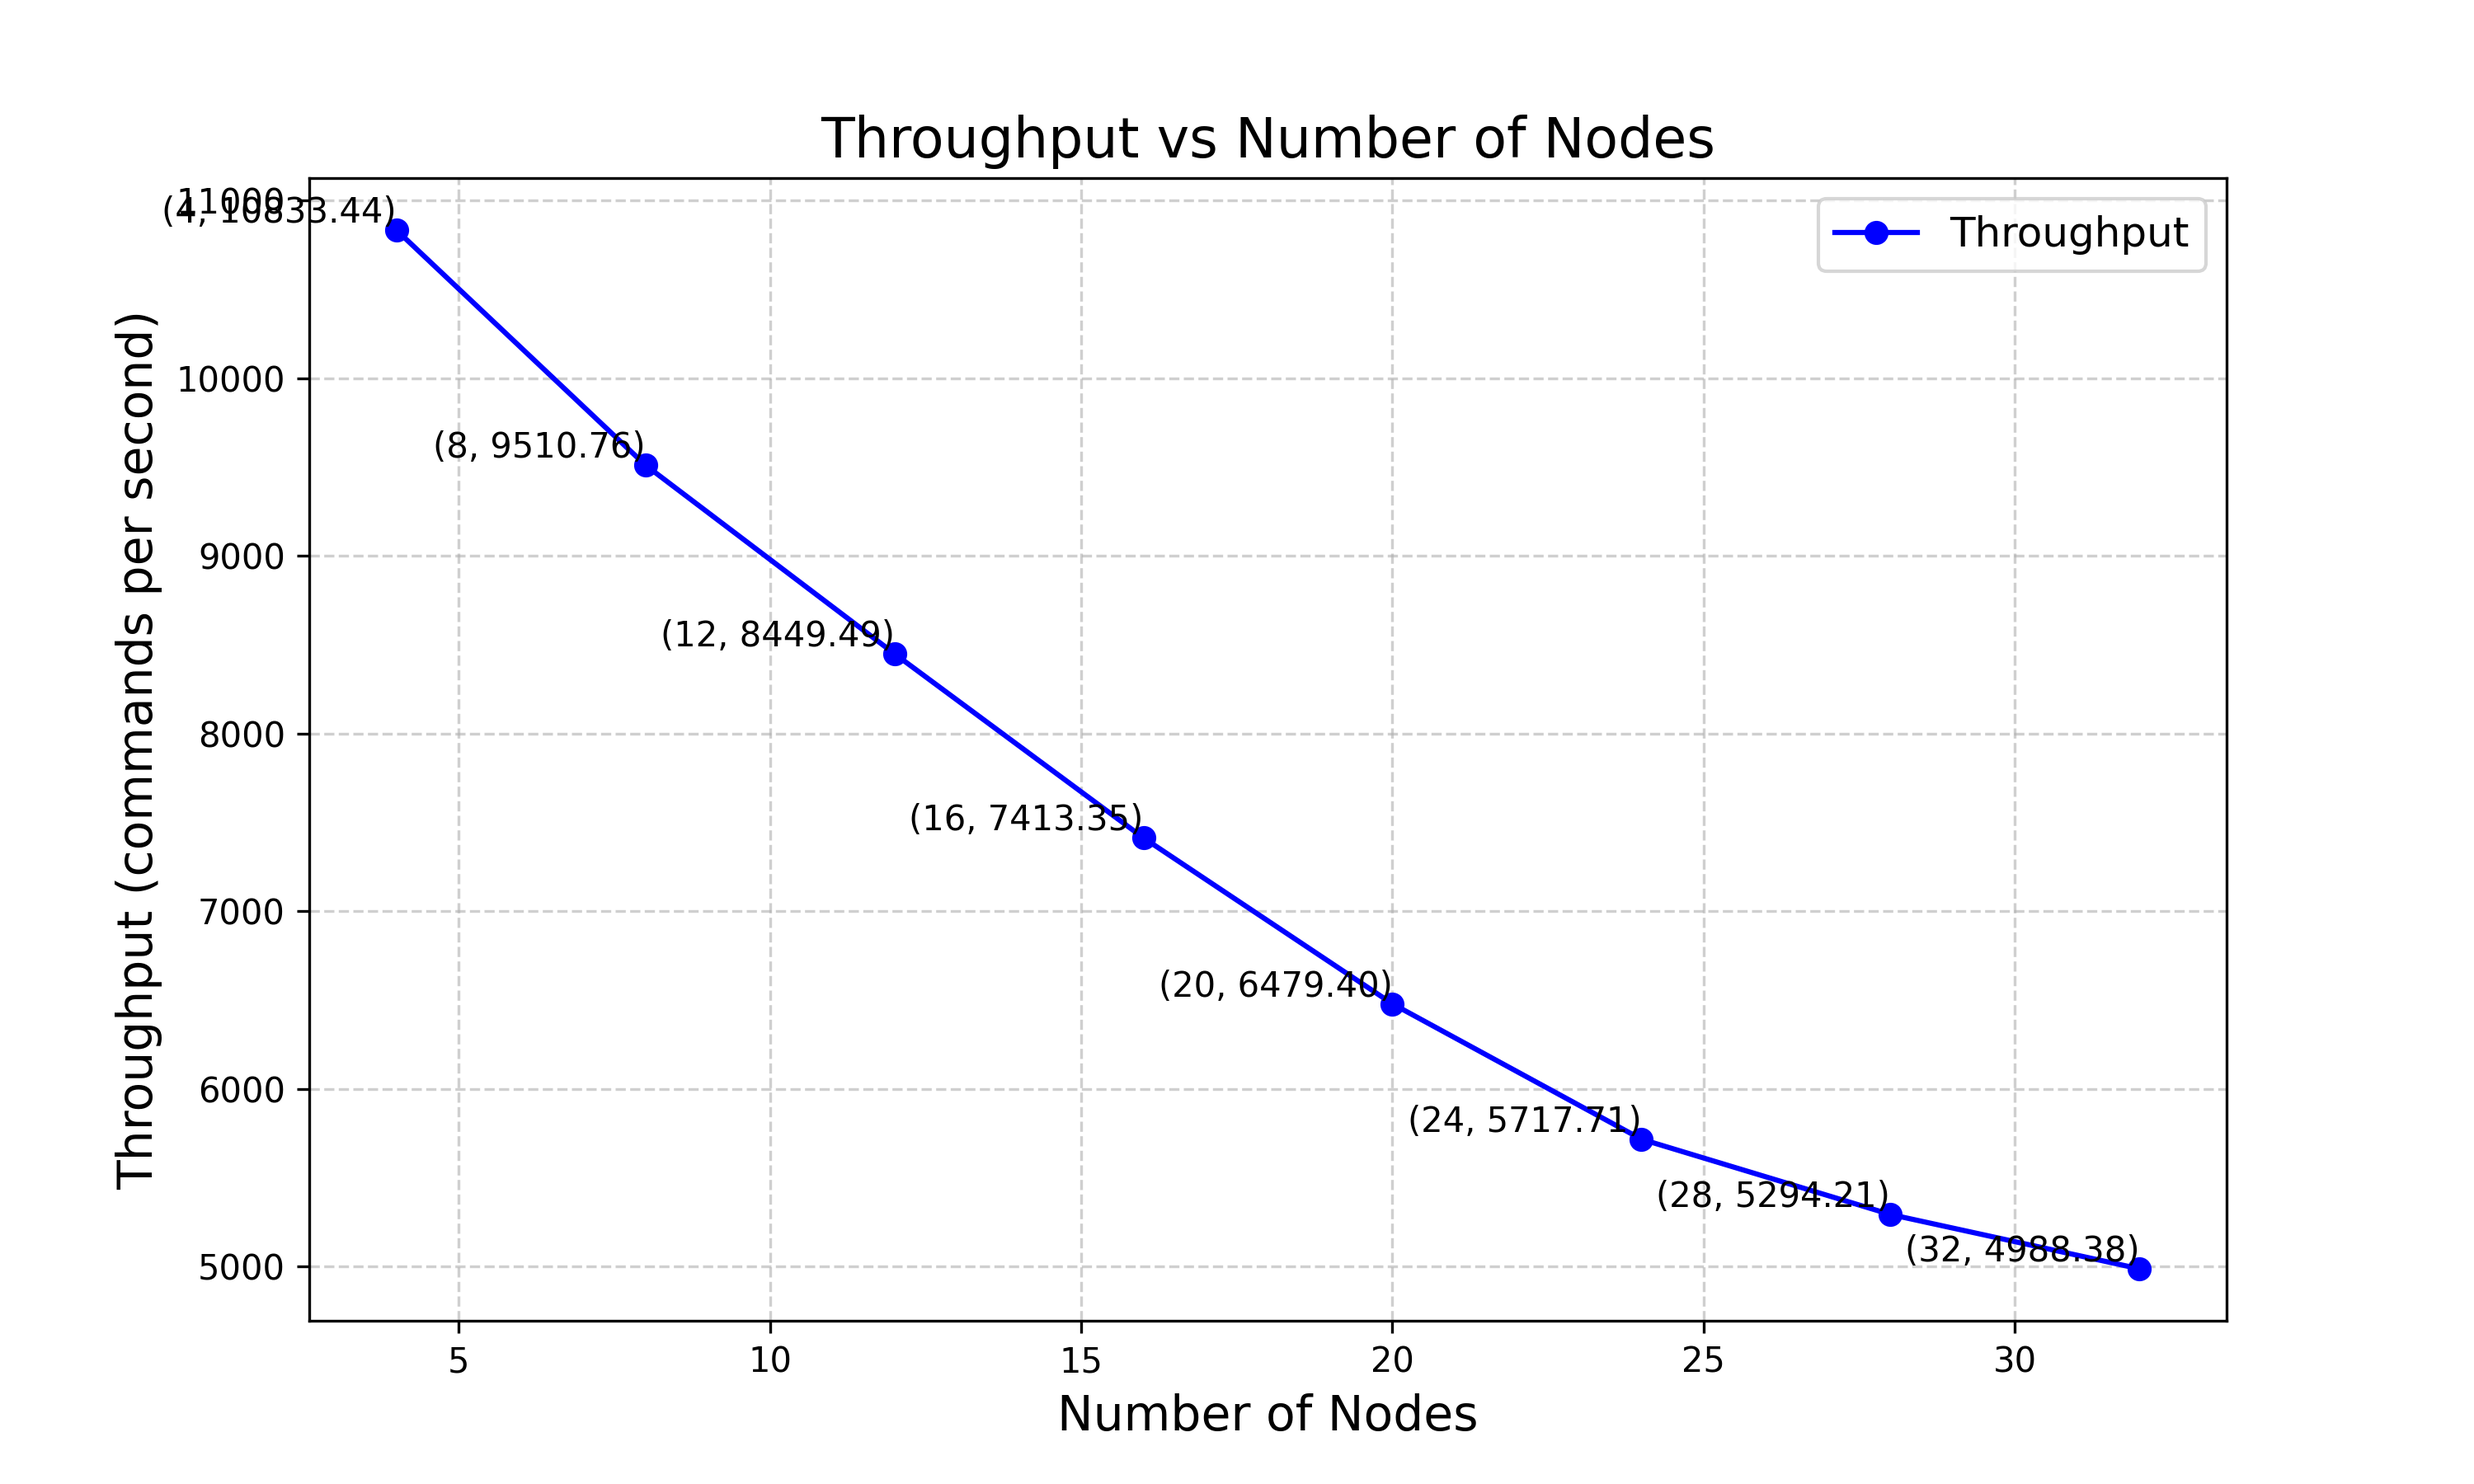
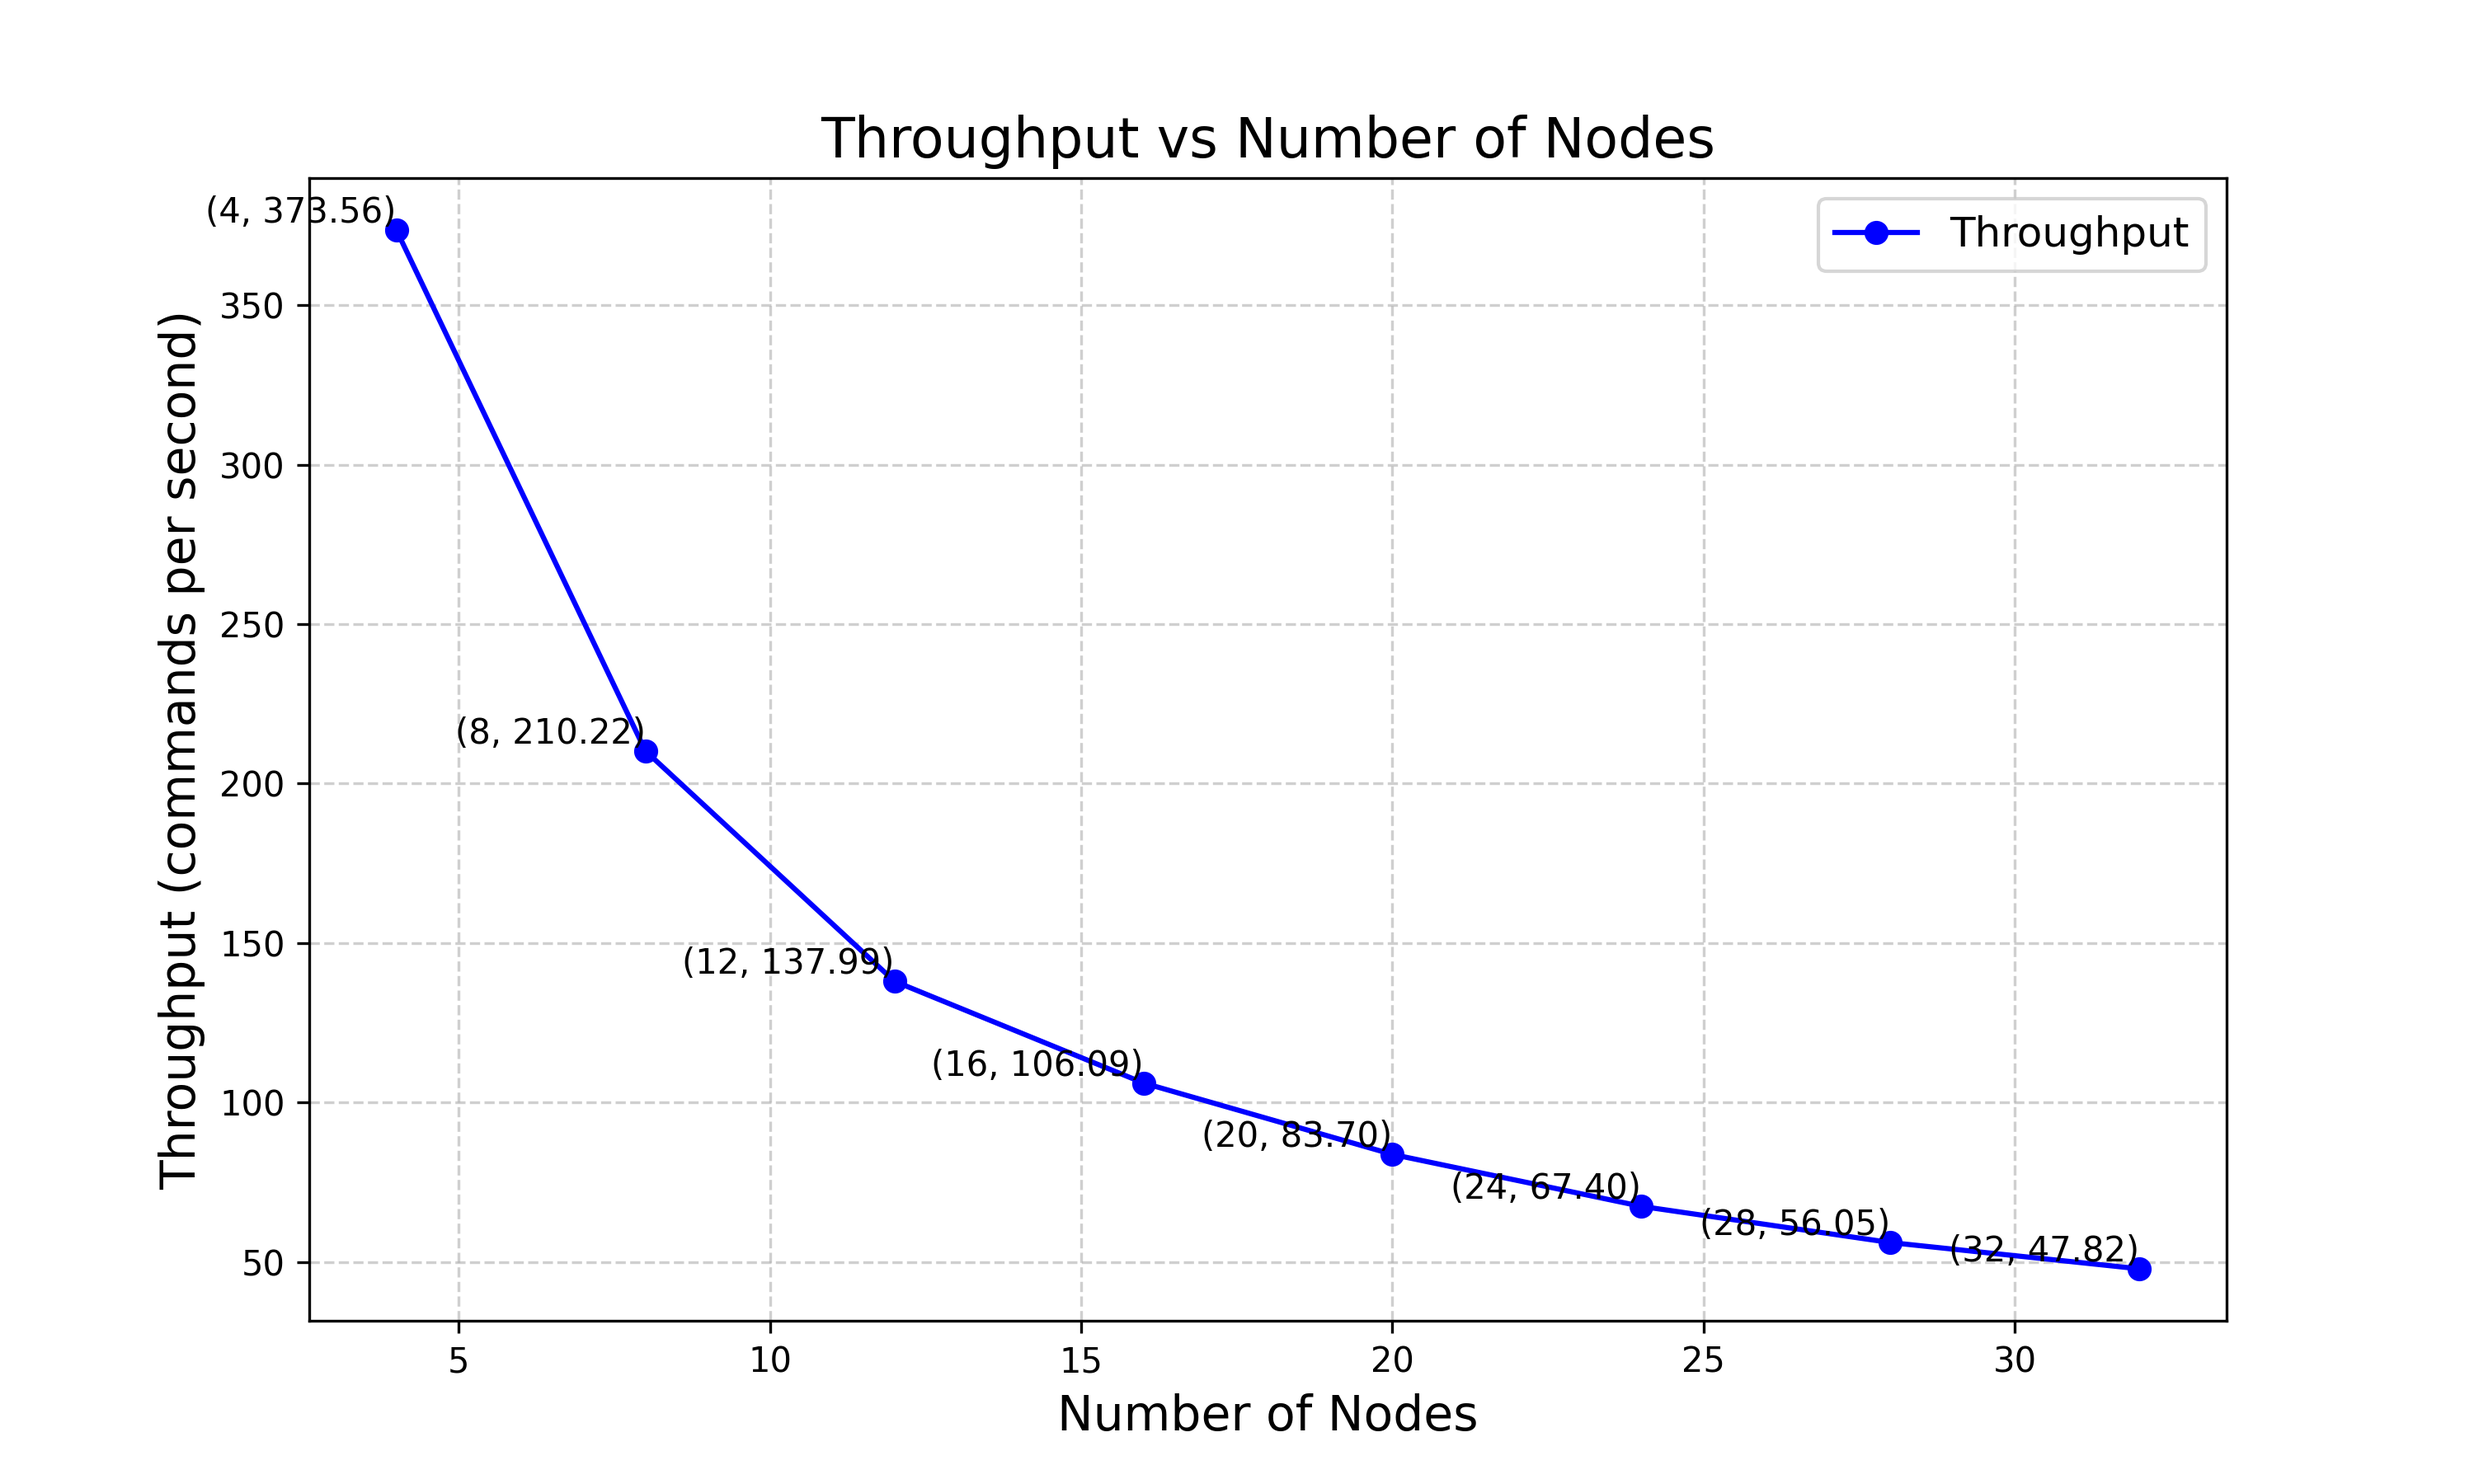
Updated Some Experiment Results

diff --git a/ExperimentConfig.py b/ExperimentConfig.py
@@ -1,13 +1,13 @@
 # number of ports taken for this experiment
-numberOfPortsTakenInExperiment = 16 # Change this to the number of ports you want to take for the experiment
+numberOfPortsTakenInExperiment = 32 # Change this to the number of ports you want to take for the experiment
 
 experimentMode = "Delay"  # Change this to "Throughput" or "Delay" based on the experiment you want to run
 
-experimentXAxis = "BatchSize"      # Change this to "Nodes" or "BatchSize" based on the experiment you want to run
+experimentXAxis = "Nodes"      # Change this to "Nodes" or "BatchSize" based on the experiment you want to run
 
 BatchSize = 128
 
-folderPath = "F:/HISHAM_CSE  ASUS/MSc/CSE 6801/Project/BFT/logsbatchN16/"
+folderPath = "F:/HISHAM_CSE  ASUS/MSc/CSE 6801/Project/BFT/logsFail/"
 
 if experimentXAxis == "Nodes":
     folder = folderPath + "" + str(numberOfPortsTakenInExperiment)
@@ -18,13 +18,14 @@ expName = "alea_bft"    # Experiment name: alea_bft or grouped_bft
 
 grpSize = 8             # Group size (if experiment name is grouped_bft)
 
-faultName = ""          # "" or "fault" based on the experiment you want to run
+faultName = "fault"          # "" or "fault" based on the experiment you want to run
 
 fileExtName = "_" + expName if expName == "alea_bft" else f"_{expName}_{grpSize}"
 
 fileExtName += "_fault" if faultName == "fault" else ""
 
-faultPorts = [3002,3003,3010,3011,3018,3019,3026,3027]   # which ports to fault if faultName is "fault"
+faultPorts = [3002,3003,3004,3005,3006,3007,3008,3009]
+    # ,3004,3005,3006,3007,3008,3009]   # which ports to fault if faultName is "fault"
 
 RandomPortCountForDelay = 512   # Change this to the number of random ports which should be multiple of BatchSize
 
